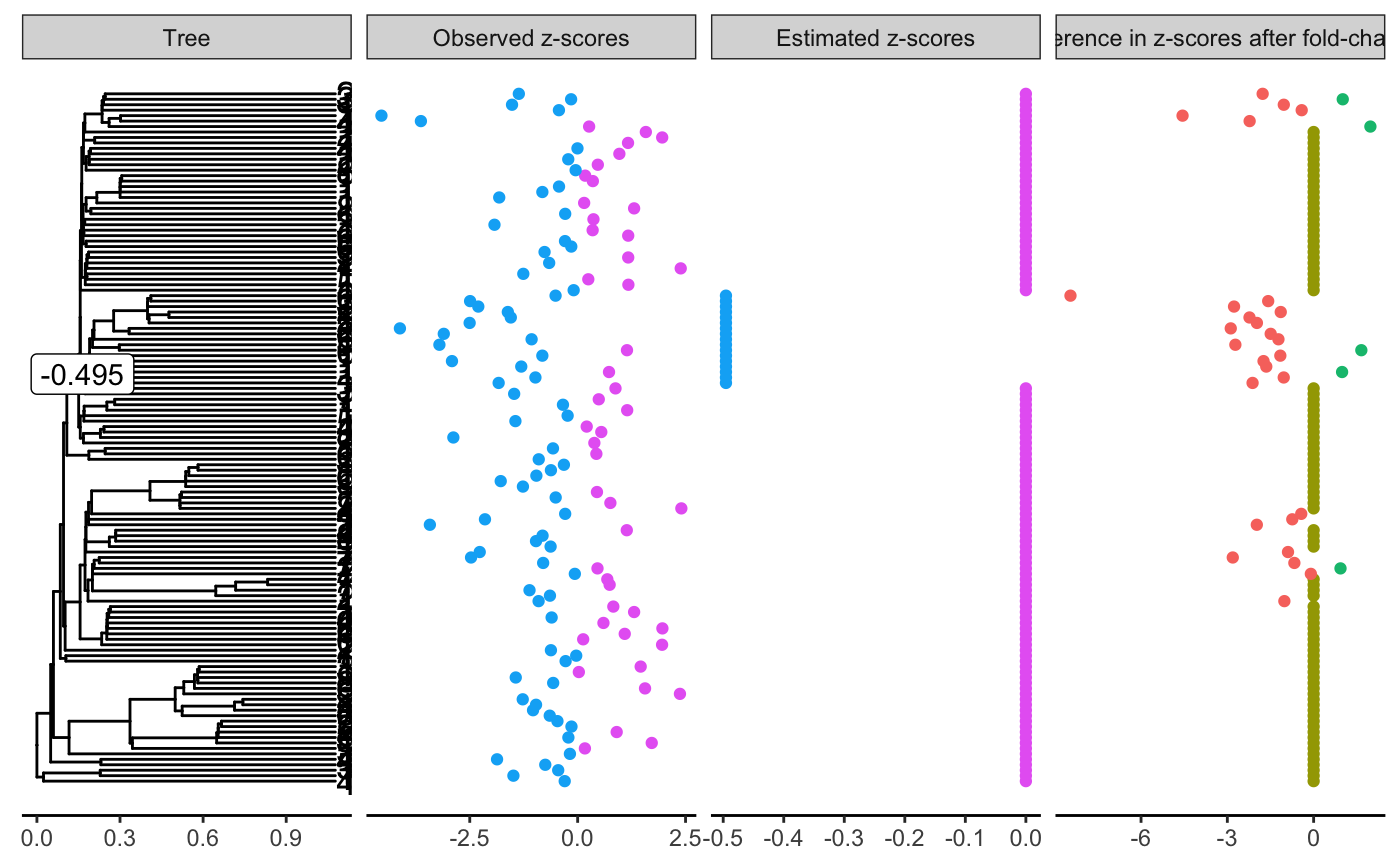
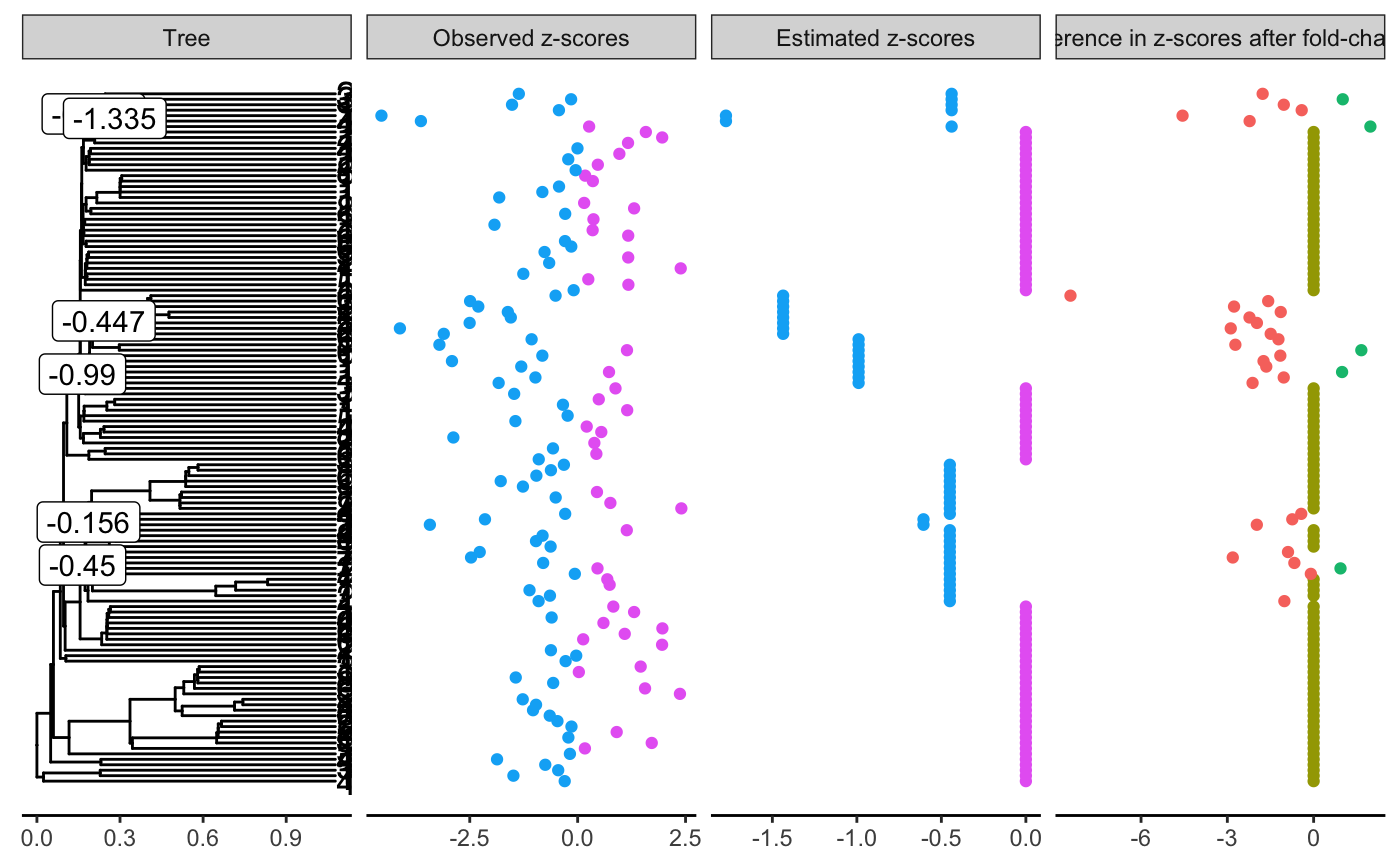
Change default values for lambda_grid()

diff --git a/inst/docs/articles/simulations.html b/inst/docs/articles/simulations.html
@@ -337,71 +337,66 @@
 <a class="sourceLine" id="cb21-7" data-line-number="7"><span class="co">#&gt; Warning: Removed 253 rows containing missing values (geom_label).</span></a></code></pre></div>
 <p><img src="simulations_files/figure-html/zscoressimudataset-1.png" width="700" style="display: block; margin: auto;"></p>
 <div class="sourceCode" id="cb22"><pre class="sourceCode r"><code class="sourceCode r"><a class="sourceLine" id="cb22-1" data-line-number="1"><span class="kw"><a href="https://rdrr.io/pkg/tictoc/man/tic.html">tic</a></span>()</a>
-<a class="sourceLine" id="cb22-2" data-line-number="2">estimation &lt;-<span class="st"> </span><span class="kw"><a href="../reference/estimate_shifts.html">estimate_shifts</a></span>(<span class="kw"><a href="https://rdrr.io/r/base/rep.html">rep</a></span>(<span class="dv">0</span>, N_branch), <span class="dt">zscores =</span> zscores, </a>
-<a class="sourceLine" id="cb22-3" data-line-number="3">                              <span class="dt">lambda =</span> <span class="dv">3</span> <span class="op">*</span><span class="st"> </span><span class="kw"><a href="https://rdrr.io/r/base/c.html">c</a></span>(<span class="dv">1</span><span class="op">/</span><span class="dv">3</span>, <span class="dv">1</span><span class="op">:</span><span class="dv">5</span>), <span class="dt">tree =</span> tree,</a>
-<a class="sourceLine" id="cb22-4" data-line-number="4">                              <span class="dt">alpha =</span> <span class="kw"><a href="https://rdrr.io/r/base/c.html">c</a></span>(<span class="fl">0.2</span>, <span class="fl">0.5</span>, <span class="dv">1</span>, <span class="dv">2</span>, <span class="dv">5</span>), </a>
-<a class="sourceLine" id="cb22-5" data-line-number="5">                              <span class="dt">method =</span> <span class="st">"shooting"</span>)</a>
-<a class="sourceLine" id="cb22-6" data-line-number="6"><span class="kw"><a href="https://rdrr.io/pkg/tictoc/man/tic.html">toc</a></span>()</a>
-<a class="sourceLine" id="cb22-7" data-line-number="7"><span class="co">#&gt; 3.376 sec elapsed</span></a>
-<a class="sourceLine" id="cb22-8" data-line-number="8">estimation</a>
-<a class="sourceLine" id="cb22-9" data-line-number="9"><span class="co">#&gt; Tree is binary with 127 leafs and 252 branches</span></a>
-<a class="sourceLine" id="cb22-10" data-line-number="10"><span class="co">#&gt; Covariance matrix has been estimated from an OU with alpha = 0.5 and sigma = 1.516 </span></a>
-<a class="sourceLine" id="cb22-11" data-line-number="11"><span class="co">#&gt; ---</span></a>
-<a class="sourceLine" id="cb22-12" data-line-number="12"><span class="co">#&gt; Optimisation algorithm: shooting with model selection</span></a>
-<a class="sourceLine" id="cb22-13" data-line-number="13"><span class="co">#&gt; Regularization parameter: lambda = 9 </span></a>
-<a class="sourceLine" id="cb22-14" data-line-number="14"><span class="co">#&gt; Objective value: 122.004</span></a>
-<a class="sourceLine" id="cb22-15" data-line-number="15"><span class="co">#&gt; BIC: 443.524</span></a>
-<a class="sourceLine" id="cb22-16" data-line-number="16"><span class="co">#&gt; ---</span></a>
-<a class="sourceLine" id="cb22-17" data-line-number="17"><span class="co">#&gt; Estimated shifts: 0 0 0 0 0 0 0 0 0 0 ...</span></a>
-<a class="sourceLine" id="cb22-18" data-line-number="18"><span class="co">#&gt; 1 shifts have been identified (ie 99.6 % of sparsity)</span></a>
-<a class="sourceLine" id="cb22-19" data-line-number="19"><span class="co">#&gt; A parsimonious solution would involve 1 shifts</span></a>
-<a class="sourceLine" id="cb22-20" data-line-number="20"><span class="co">#&gt; ---</span></a>
-<a class="sourceLine" id="cb22-21" data-line-number="21"><span class="co">#&gt; Observed z-scores:  1.58 -0.434 -0.152 -1.363 -1.521 -3.632 -4.547 0.266 1.167 1.959 ...</span></a>
-<a class="sourceLine" id="cb22-22" data-line-number="22"><span class="co">#&gt; Estimated z-scores:    0      0      0      0      0      0      0     0     0     0 ...</span></a>
-<a class="sourceLine" id="cb22-23" data-line-number="23"><span class="co">#&gt; 17 z-scores have been shifted (ie 86.6 % of sparsity)</span></a>
-<a class="sourceLine" id="cb22-24" data-line-number="24"><span class="kw"><a href="https://rdrr.io/r/graphics/plot.html">plot</a></span>(estimation, </a>
-<a class="sourceLine" id="cb22-25" data-line-number="25">     <span class="dt">sup_scores =</span> <span class="kw"><a href="https://rdrr.io/r/base/list.html">list</a></span>(<span class="kw"><a href="https://rdrr.io/r/base/list.html">list</a></span>(<span class="dt">scores =</span> zscores <span class="op">-</span><span class="st"> </span>zscores_original,</a>
-<a class="sourceLine" id="cb22-26" data-line-number="26">                            <span class="dt">title =</span> <span class="st">"Difference in z-scores after fold-change"</span>,</a>
-<a class="sourceLine" id="cb22-27" data-line-number="27">                            <span class="dt">color =</span> <span class="kw"><a href="https://rdrr.io/r/base/character.html">as.character</a></span>(<span class="kw"><a href="https://rdrr.io/r/base/sign.html">sign</a></span>(zscores <span class="op">-</span><span class="st"> </span>zscores_original)))))</a>
-<a class="sourceLine" id="cb22-28" data-line-number="28"><span class="co">#&gt; Warning: Removed 252 rows containing missing values (geom_label).</span></a></code></pre></div>
+<a class="sourceLine" id="cb22-2" data-line-number="2">estimation &lt;-<span class="st"> </span><span class="kw"><a href="../reference/estimate_shifts.html">estimate_shifts</a></span>(<span class="kw"><a href="https://rdrr.io/r/base/rep.html">rep</a></span>(<span class="dv">0</span>, N_branch), <span class="dt">zscores =</span> zscores, <span class="dt">tree =</span> tree,</a>
+<a class="sourceLine" id="cb22-3" data-line-number="3">                              <span class="dt">alpha =</span> <span class="kw"><a href="https://rdrr.io/r/base/c.html">c</a></span>(<span class="fl">0.2</span>, <span class="fl">0.5</span>, <span class="dv">1</span>, <span class="dv">2</span>, <span class="dv">5</span>), <span class="dt">method =</span> <span class="st">"shooting"</span>)</a>
+<a class="sourceLine" id="cb22-4" data-line-number="4"><span class="kw"><a href="https://rdrr.io/pkg/tictoc/man/tic.html">toc</a></span>()</a>
+<a class="sourceLine" id="cb22-5" data-line-number="5"><span class="co">#&gt; 7.783 sec elapsed</span></a>
+<a class="sourceLine" id="cb22-6" data-line-number="6">estimation</a>
+<a class="sourceLine" id="cb22-7" data-line-number="7"><span class="co">#&gt; Tree is binary with 127 leafs and 252 branches</span></a>
+<a class="sourceLine" id="cb22-8" data-line-number="8"><span class="co">#&gt; Covariance matrix has been estimated from an OU with alpha = 1 and sigma = 1.6 </span></a>
+<a class="sourceLine" id="cb22-9" data-line-number="9"><span class="co">#&gt; ---</span></a>
+<a class="sourceLine" id="cb22-10" data-line-number="10"><span class="co">#&gt; Optimisation algorithm: shooting with model selection</span></a>
+<a class="sourceLine" id="cb22-11" data-line-number="11"><span class="co">#&gt; Regularization parameter: lambda = 4.491 </span></a>
+<a class="sourceLine" id="cb22-12" data-line-number="12"><span class="co">#&gt; Objective value: 108.121</span></a>
+<a class="sourceLine" id="cb22-13" data-line-number="13"><span class="co">#&gt; BIC: 448.663</span></a>
+<a class="sourceLine" id="cb22-14" data-line-number="14"><span class="co">#&gt; ---</span></a>
+<a class="sourceLine" id="cb22-15" data-line-number="15"><span class="co">#&gt; Estimated shifts: 0 0 0 0 0 0 0 0 0 0 ...</span></a>
+<a class="sourceLine" id="cb22-16" data-line-number="16"><span class="co">#&gt; 6 shifts have been identified (ie 97.6 % of sparsity)</span></a>
+<a class="sourceLine" id="cb22-17" data-line-number="17"><span class="co">#&gt; A parsimonious solution would involve 6 shifts</span></a>
+<a class="sourceLine" id="cb22-18" data-line-number="18"><span class="co">#&gt; ---</span></a>
+<a class="sourceLine" id="cb22-19" data-line-number="19"><span class="co">#&gt; Observed z-scores:  1.58 -0.434 -0.152 -1.363 -1.521 -3.632 -4.547  0.266 1.167 1.959 ...</span></a>
+<a class="sourceLine" id="cb22-20" data-line-number="20"><span class="co">#&gt; Estimated z-scores:    0 -0.439 -0.439 -0.439 -0.439 -1.775 -1.775 -0.439     0     0 ...</span></a>
+<a class="sourceLine" id="cb22-21" data-line-number="21"><span class="co">#&gt; 50 z-scores have been shifted (ie 60.6 % of sparsity)</span></a>
+<a class="sourceLine" id="cb22-22" data-line-number="22"><span class="kw"><a href="https://rdrr.io/r/graphics/plot.html">plot</a></span>(estimation, </a>
+<a class="sourceLine" id="cb22-23" data-line-number="23">     <span class="dt">sup_scores =</span> <span class="kw"><a href="https://rdrr.io/r/base/list.html">list</a></span>(<span class="kw"><a href="https://rdrr.io/r/base/list.html">list</a></span>(<span class="dt">scores =</span> zscores <span class="op">-</span><span class="st"> </span>zscores_original,</a>
+<a class="sourceLine" id="cb22-24" data-line-number="24">                            <span class="dt">title =</span> <span class="st">"Difference in z-scores after fold-change"</span>,</a>
+<a class="sourceLine" id="cb22-25" data-line-number="25">                            <span class="dt">color =</span> <span class="kw"><a href="https://rdrr.io/r/base/character.html">as.character</a></span>(<span class="kw"><a href="https://rdrr.io/r/base/sign.html">sign</a></span>(zscores <span class="op">-</span><span class="st"> </span>zscores_original)))))</a>
+<a class="sourceLine" id="cb22-26" data-line-number="26"><span class="co">#&gt; Warning: Removed 247 rows containing missing values (geom_label).</span></a></code></pre></div>
 <p><img src="simulations_files/figure-html/estimationwithselection-1.png" width="700" style="display: block; margin: auto;"></p>
-<div class="sourceCode" id="cb23"><pre class="sourceCode r"><code class="sourceCode r"><a class="sourceLine" id="cb23-1" data-line-number="1">estimation<span class="op">$</span>optim_info<span class="op">$</span>bic_selection[<span class="dv">1</span><span class="op">:</span><span class="dv">4</span>]</a>
-<a class="sourceLine" id="cb23-2" data-line-number="2"><span class="co">#&gt;    alpha lambda objective_value      bic</span></a>
-<a class="sourceLine" id="cb23-3" data-line-number="3"><span class="co">#&gt; 1    0.2      1        79.35984 664.7875</span></a>
-<a class="sourceLine" id="cb23-4" data-line-number="4"><span class="co">#&gt; 2    0.2      3       111.84539 481.9931</span></a>
-<a class="sourceLine" id="cb23-5" data-line-number="5"><span class="co">#&gt; 3    0.2      6       124.73259 467.0638</span></a>
-<a class="sourceLine" id="cb23-6" data-line-number="6"><span class="co">#&gt; 4    0.2      9       127.66451 459.5819</span></a>
-<a class="sourceLine" id="cb23-7" data-line-number="7"><span class="co">#&gt; 5    0.2     12       128.43454 461.1044</span></a>
-<a class="sourceLine" id="cb23-8" data-line-number="8"><span class="co">#&gt; 6    0.2     15       128.43454 461.1044</span></a>
-<a class="sourceLine" id="cb23-9" data-line-number="9"><span class="co">#&gt; 7    0.5      1        76.81657 617.6763</span></a>
-<a class="sourceLine" id="cb23-10" data-line-number="10"><span class="co">#&gt; 8    0.5      3       106.57043 452.4026</span></a>
-<a class="sourceLine" id="cb23-11" data-line-number="11"><span class="co">#&gt; 9    0.5      6       118.74296 447.3734</span></a>
-<a class="sourceLine" id="cb23-12" data-line-number="12"><span class="co">#&gt; 10   0.5      9       122.00367 443.5236</span></a>
-<a class="sourceLine" id="cb23-13" data-line-number="13"><span class="co">#&gt; 11   0.5     12       123.16428 449.1238</span></a>
-<a class="sourceLine" id="cb23-14" data-line-number="14"><span class="co">#&gt; 12   0.5     15       123.16428 449.1238</span></a>
-<a class="sourceLine" id="cb23-15" data-line-number="15"><span class="co">#&gt; 13   1.0      1        73.89569 602.6719</span></a>
-<a class="sourceLine" id="cb23-16" data-line-number="16"><span class="co">#&gt; 14   1.0      3       100.78556 465.2568</span></a>
-<a class="sourceLine" id="cb23-17" data-line-number="17"><span class="co">#&gt; 15   1.0      6       112.70025 450.8219</span></a>
-<a class="sourceLine" id="cb23-18" data-line-number="18"><span class="co">#&gt; 16   1.0      9       116.59801 449.6638</span></a>
-<a class="sourceLine" id="cb23-19" data-line-number="19"><span class="co">#&gt; 17   1.0     12       118.48105 451.9635</span></a>
-<a class="sourceLine" id="cb23-20" data-line-number="20"><span class="co">#&gt; 18   1.0     15       118.71711 454.8281</span></a>
-<a class="sourceLine" id="cb23-21" data-line-number="21"><span class="co">#&gt; 19   2.0      1        71.73492 620.1164</span></a>
-<a class="sourceLine" id="cb23-22" data-line-number="22"><span class="co">#&gt; 20   2.0      3        95.91796 488.8059</span></a>
-<a class="sourceLine" id="cb23-23" data-line-number="23"><span class="co">#&gt; 21   2.0      6       108.18699 486.4565</span></a>
-<a class="sourceLine" id="cb23-24" data-line-number="24"><span class="co">#&gt; 22   2.0      9       113.84077 497.5231</span></a>
-<a class="sourceLine" id="cb23-25" data-line-number="25"><span class="co">#&gt; 23   2.0     12       116.05119 480.4951</span></a>
-<a class="sourceLine" id="cb23-26" data-line-number="26"><span class="co">#&gt; 24   2.0     15       118.18237 492.1856</span></a>
-<a class="sourceLine" id="cb23-27" data-line-number="27"><span class="co">#&gt; 25   5.0      1        71.48515 710.0186</span></a>
-<a class="sourceLine" id="cb23-28" data-line-number="28"><span class="co">#&gt; 26   5.0      3        94.53051 584.6625</span></a>
-<a class="sourceLine" id="cb23-29" data-line-number="29"><span class="co">#&gt; 27   5.0      6       107.13514 577.7578</span></a>
-<a class="sourceLine" id="cb23-30" data-line-number="30"><span class="co">#&gt; 28   5.0      9       113.21013 579.9054</span></a>
-<a class="sourceLine" id="cb23-31" data-line-number="31"><span class="co">#&gt; 29   5.0     12       116.49232 566.2284</span></a>
-<a class="sourceLine" id="cb23-32" data-line-number="32"><span class="co">#&gt; 30   5.0     15       119.12008 566.7097</span></a></code></pre></div>
+<div class="sourceCode" id="cb23"><pre class="sourceCode r"><code class="sourceCode r"><a class="sourceLine" id="cb23-1" data-line-number="1">estimation<span class="op">$</span>optim_info<span class="op">$</span>bic_selection <span class="op">%&gt;%</span></a>
+<a class="sourceLine" id="cb23-2" data-line-number="2"><span class="st">  </span><span class="kw"><a href="https://dplyr.tidyverse.org/reference/mutate.html">mutate</a></span>(<span class="dt">n_shifts =</span> <span class="kw"><a href="https://purrr.tidyverse.org/reference/map.html">map_dbl</a></span>(shift_est, <span class="op">~</span><span class="st"> </span><span class="kw"><a href="https://rdrr.io/r/base/sum.html">sum</a></span>(. <span class="op">!=</span><span class="st"> </span><span class="dv">0</span>))) <span class="op">%&gt;%</span><span class="st"> </span></a>
+<a class="sourceLine" id="cb23-3" data-line-number="3"><span class="st">  </span><span class="kw"><a href="https://dplyr.tidyverse.org/reference/select.html">select</a></span>(<span class="op">-</span>shift_est)</a>
+<a class="sourceLine" id="cb23-4" data-line-number="4"><span class="co">#&gt;    alpha     lambda objective_value      bic n_shifts</span></a>
+<a class="sourceLine" id="cb23-5" data-line-number="5"><span class="co">#&gt; 1    0.2 11.5895510       128.43454 461.1044        0</span></a>
+<a class="sourceLine" id="cb23-6" data-line-number="6"><span class="co">#&gt; 2    0.2  3.6649378       116.28074 480.4426       10</span></a>
+<a class="sourceLine" id="cb23-7" data-line-number="7"><span class="co">#&gt; 3    0.2  1.1589551        84.36882 636.9275       46</span></a>
+<a class="sourceLine" id="cb23-8" data-line-number="8"><span class="co">#&gt; 4    0.2  0.3664938        47.06135 858.8489       92</span></a>
+<a class="sourceLine" id="cb23-9" data-line-number="9"><span class="co">#&gt; 5    0.2  0.1158955        24.52084 909.8378      100</span></a>
+<a class="sourceLine" id="cb23-10" data-line-number="10"><span class="co">#&gt; 6    0.5 12.4598888       123.16428 449.1238        0</span></a>
+<a class="sourceLine" id="cb23-11" data-line-number="11"><span class="co">#&gt; 7    0.5  3.9401628       112.01428 449.5151        8</span></a>
+<a class="sourceLine" id="cb23-12" data-line-number="12"><span class="co">#&gt; 8    0.5  1.2459889        83.61821 567.7362       38</span></a>
+<a class="sourceLine" id="cb23-13" data-line-number="13"><span class="co">#&gt; 9    0.5  0.3940163        48.78565 802.8143       88</span></a>
+<a class="sourceLine" id="cb23-14" data-line-number="14"><span class="co">#&gt; 10   0.5  0.1245989        26.40136 863.9229       98</span></a>
+<a class="sourceLine" id="cb23-15" data-line-number="15"><span class="co">#&gt; 11   1.0 14.2023143       118.62973 453.2767        1</span></a>
+<a class="sourceLine" id="cb23-16" data-line-number="16"><span class="co">#&gt; 12   1.0  4.4911661       108.12114 448.6633        6</span></a>
+<a class="sourceLine" id="cb23-17" data-line-number="17"><span class="co">#&gt; 13   1.0  1.4202314        83.64183 535.8846       29</span></a>
+<a class="sourceLine" id="cb23-18" data-line-number="18"><span class="co">#&gt; 14   1.0  0.4491166        52.07900 759.7748       78</span></a>
+<a class="sourceLine" id="cb23-19" data-line-number="19"><span class="co">#&gt; 15   1.0  0.1420231        30.08167 837.2898       93</span></a>
+<a class="sourceLine" id="cb23-20" data-line-number="20"><span class="co">#&gt; 16   2.0 18.0004476       118.98448 480.4653        2</span></a>
+<a class="sourceLine" id="cb23-21" data-line-number="21"><span class="co">#&gt; 17   2.0  5.6922413       107.32682 485.7496        6</span></a>
+<a class="sourceLine" id="cb23-22" data-line-number="22"><span class="co">#&gt; 18   2.0  1.8000448        85.81006 540.4442       20</span></a>
+<a class="sourceLine" id="cb23-23" data-line-number="23"><span class="co">#&gt; 19   2.0  0.5692241        58.30107 731.5024       62</span></a>
+<a class="sourceLine" id="cb23-24" data-line-number="24"><span class="co">#&gt; 20   2.0  0.1800045        37.47416 806.4317       78</span></a>
+<a class="sourceLine" id="cb23-25" data-line-number="25"><span class="co">#&gt; 21   5.0 21.6884593       123.05463 568.1651        4</span></a>
+<a class="sourceLine" id="cb23-26" data-line-number="26"><span class="co">#&gt; 22   5.0  6.8584930       109.32786 578.5604        7</span></a>
+<a class="sourceLine" id="cb23-27" data-line-number="27"><span class="co">#&gt; 23   5.0  2.1688459        88.38188 612.2663       15</span></a>
+<a class="sourceLine" id="cb23-28" data-line-number="28"><span class="co">#&gt; 24   5.0  0.6858493        63.14174 761.8823       47</span></a>
+<a class="sourceLine" id="cb23-29" data-line-number="29"><span class="co">#&gt; 25   5.0  0.2168846        43.45898 871.2909       70</span></a></code></pre></div>
 <div class="sourceCode" id="cb24"><pre class="sourceCode r"><code class="sourceCode r"><a class="sourceLine" id="cb24-1" data-line-number="1">detected &lt;-<span class="st"> </span><span class="kw"><a href="https://rdrr.io/r/base/names.html">names</a></span>(<span class="kw"><a href="https://rdrr.io/r/base/which.html">which</a></span>(estimation<span class="op">$</span>zscores_est <span class="op">!=</span><span class="st"> </span><span class="dv">0</span>))</a>
 <a class="sourceLine" id="cb24-2" data-line-number="2">detected_bh &lt;-<span class="st"> </span><span class="kw"><a href="https://rdrr.io/r/base/names.html">names</a></span>(<span class="kw"><a href="https://rdrr.io/r/base/which.html">which</a></span>(<span class="kw"><a href="https://rdrr.io/r/stats/p.adjust.html">p.adjust</a></span>(pvalues, <span class="dt">method =</span> <span class="st">"BH"</span>) <span class="op">&lt;</span><span class="st"> </span><span class="fl">0.05</span>))</a>
 <a class="sourceLine" id="cb24-3" data-line-number="3"><span class="kw"><a href="https://rdrr.io/pkg/evabic/man/ebc_tidy.html">ebc_tidy</a></span>(detected, otus_da, <span class="dt">m =</span> <span class="kw"><a href="https://rdrr.io/r/base/length.html">length</a></span>(otu_to_kepp), <span class="dt">measures =</span> <span class="kw"><a href="https://rdrr.io/r/base/c.html">c</a></span>(<span class="st">"TPR"</span>, <span class="st">"FDR"</span>, <span class="st">"ACC"</span>, <span class="st">"F1"</span>, <span class="st">"BACC"</span>))</a>
-<a class="sourceLine" id="cb24-4" data-line-number="4"><span class="co">#&gt;         TPR FDR       ACC   F1      BACC</span></a>
-<a class="sourceLine" id="cb24-5" data-line-number="5"><span class="co">#&gt; 1 0.5151515   0 0.8740157 0.68 0.7575758</span></a>
+<a class="sourceLine" id="cb24-4" data-line-number="4"><span class="co">#&gt;   TPR  FDR       ACC        F1      BACC</span></a>
+<a class="sourceLine" id="cb24-5" data-line-number="5"><span class="co">#&gt; 1   1 0.34 0.8661417 0.7951807 0.9095745</span></a>
 <a class="sourceLine" id="cb24-6" data-line-number="6"><span class="kw"><a href="https://rdrr.io/pkg/evabic/man/ebc_tidy.html">ebc_tidy</a></span>(detected_bh, otus_da, <span class="dt">m =</span> <span class="kw"><a href="https://rdrr.io/r/base/length.html">length</a></span>(otu_to_kepp), <span class="dt">measures =</span> <span class="kw"><a href="https://rdrr.io/r/base/c.html">c</a></span>(<span class="st">"TPR"</span>, <span class="st">"FDR"</span>, <span class="st">"ACC"</span>, <span class="st">"F1"</span>, <span class="st">"BACC"</span>))</a>
 <a class="sourceLine" id="cb24-7" data-line-number="7"><span class="co">#&gt;         TPR   FDR       ACC        F1      BACC</span></a>
 <a class="sourceLine" id="cb24-8" data-line-number="8"><span class="co">#&gt; 1 0.2121212 0.125 0.7874016 0.3414634 0.6007415</span></a></code></pre></div>
@@ -413,7 +408,7 @@
 <a class="sourceLine" id="cb25-6" data-line-number="6">                       <span class="kw"><a href="https://rdrr.io/r/base/list.html">list</a></span>(<span class="dt">scores =</span> <span class="kw"><a href="https://rdrr.io/r/stats/p.adjust.html">p.adjust</a></span>(pvalues, <span class="dt">method =</span> <span class="st">"BH"</span>),</a>
 <a class="sourceLine" id="cb25-7" data-line-number="7">                            <span class="dt">title =</span> <span class="st">"Detected by BH"</span>,</a>
 <a class="sourceLine" id="cb25-8" data-line-number="8">                            <span class="dt">color =</span> <span class="kw"><a href="https://rdrr.io/r/stats/p.adjust.html">p.adjust</a></span>(pvalues, <span class="dt">method =</span> <span class="st">"BH"</span>) <span class="op">&lt;</span><span class="st"> </span><span class="fl">0.05</span>)))</a>
-<a class="sourceLine" id="cb25-9" data-line-number="9"><span class="co">#&gt; Warning: Removed 252 rows containing missing values (geom_label).</span></a></code></pre></div>
+<a class="sourceLine" id="cb25-9" data-line-number="9"><span class="co">#&gt; Warning: Removed 247 rows containing missing values (geom_label).</span></a></code></pre></div>
 <p><img src="simulations_files/figure-html/plotswithbh-1.png" width="700" style="display: block; margin: auto;"></p>
 <div class="sourceCode" id="cb26"><pre class="sourceCode r"><code class="sourceCode r"><a class="sourceLine" id="cb26-1" data-line-number="1">df &lt;-</a>
 <a class="sourceLine" id="cb26-2" data-line-number="2"><span class="st">  </span><span class="kw"><a href="https://rdrr.io/r/base/unique.html">unique</a></span>(estimation<span class="op">$</span>zscores_est) <span class="op">%&gt;%</span></a>

diff --git a/inst/docs/articles/alcohol.html b/inst/docs/articles/alcohol.html
@@ -142,7 +142,7 @@
 <a class="sourceLine" id="cb7-3" data-line-number="3">                              <span class="dt">lambda =</span> <span class="dv">2</span>, <span class="dt">tree =</span> tree, <span class="dt">alpha =</span> <span class="fl">0.1</span>,</a>
 <a class="sourceLine" id="cb7-4" data-line-number="4">                              <span class="dt">method =</span> <span class="st">"L-BFGS-B"</span>)</a>
 <a class="sourceLine" id="cb7-5" data-line-number="5"><span class="kw"><a href="https://rdrr.io/pkg/tictoc/man/tic.html">toc</a></span>()</a>
-<a class="sourceLine" id="cb7-6" data-line-number="6"><span class="co">#&gt; 172.95 sec elapsed</span></a>
+<a class="sourceLine" id="cb7-6" data-line-number="6"><span class="co">#&gt; 187.117 sec elapsed</span></a>
 <a class="sourceLine" id="cb7-7" data-line-number="7">est_lbfgsb</a>
 <a class="sourceLine" id="cb7-8" data-line-number="8"><span class="co">#&gt; Tree is not binary with 949 leafs and 1890 branches</span></a>
 <a class="sourceLine" id="cb7-9" data-line-number="9"><span class="co">#&gt; Covariance matrix has been estimated from an OU with alpha = 0.1 and sigma = 2.307 </span></a>
@@ -171,7 +171,7 @@
 <a class="sourceLine" id="cb8-3" data-line-number="3">                                <span class="dt">lambda =</span> <span class="dv">2</span>, <span class="dt">tree =</span> tree, <span class="dt">alpha =</span> <span class="fl">0.1</span>,</a>
 <a class="sourceLine" id="cb8-4" data-line-number="4">                                <span class="dt">method =</span> <span class="st">"shooting"</span>)</a>
 <a class="sourceLine" id="cb8-5" data-line-number="5"><span class="kw"><a href="https://rdrr.io/pkg/tictoc/man/tic.html">toc</a></span>() <span class="co"># 10 times faster</span></a>
-<a class="sourceLine" id="cb8-6" data-line-number="6"><span class="co">#&gt; 11.578 sec elapsed</span></a>
+<a class="sourceLine" id="cb8-6" data-line-number="6"><span class="co">#&gt; 16.009 sec elapsed</span></a>
 <a class="sourceLine" id="cb8-7" data-line-number="7">est_shooting <span class="co"># similar results</span></a>
 <a class="sourceLine" id="cb8-8" data-line-number="8"><span class="co">#&gt; Tree is not binary with 949 leafs and 1890 branches</span></a>
 <a class="sourceLine" id="cb8-9" data-line-number="9"><span class="co">#&gt; Covariance matrix has been estimated from an OU with alpha = 0.1 and sigma = 2.307 </span></a>

diff --git a/inst/docs/articles/chlamydiae.html b/inst/docs/articles/chlamydiae.html
@@ -130,7 +130,7 @@
 <a class="sourceLine" id="cb5-3" data-line-number="3">                              <span class="dt">lambda =</span> <span class="fl">0.1</span>, <span class="dt">tree =</span> tree, <span class="dt">alpha =</span> <span class="dv">1</span>,</a>
 <a class="sourceLine" id="cb5-4" data-line-number="4">                              <span class="dt">method =</span> <span class="st">"L-BFGS-B"</span>)</a>
 <a class="sourceLine" id="cb5-5" data-line-number="5"><span class="kw"><a href="https://rdrr.io/pkg/tictoc/man/tic.html">toc</a></span>()</a>
-<a class="sourceLine" id="cb5-6" data-line-number="6"><span class="co">#&gt; 0.009 sec elapsed</span></a>
+<a class="sourceLine" id="cb5-6" data-line-number="6"><span class="co">#&gt; 0.023 sec elapsed</span></a>
 <a class="sourceLine" id="cb5-7" data-line-number="7">est_lbfgsb</a>
 <a class="sourceLine" id="cb5-8" data-line-number="8"><span class="co">#&gt; Tree is binary with 21 leafs and 40 branches</span></a>
 <a class="sourceLine" id="cb5-9" data-line-number="9"><span class="co">#&gt; Covariance matrix has been estimated from an OU with alpha = 1 and sigma = 7.198 </span></a>
@@ -160,7 +160,7 @@
 <a class="sourceLine" id="cb6-4" data-line-number="4">                                <span class="dt">lambda =</span> <span class="fl">0.1</span>, <span class="dt">tree =</span> tree, <span class="dt">alpha =</span> <span class="dv">1</span>,</a>
 <a class="sourceLine" id="cb6-5" data-line-number="5">                                <span class="dt">method =</span> <span class="st">"shooting"</span>)</a>
 <a class="sourceLine" id="cb6-6" data-line-number="6"><span class="kw"><a href="https://rdrr.io/pkg/tictoc/man/tic.html">toc</a></span>()</a>
-<a class="sourceLine" id="cb6-7" data-line-number="7"><span class="co">#&gt; 0.054 sec elapsed</span></a>
+<a class="sourceLine" id="cb6-7" data-line-number="7"><span class="co">#&gt; 0.053 sec elapsed</span></a>
 <a class="sourceLine" id="cb6-8" data-line-number="8">est_shooting</a>
 <a class="sourceLine" id="cb6-9" data-line-number="9"><span class="co">#&gt; Tree is binary with 21 leafs and 40 branches</span></a>
 <a class="sourceLine" id="cb6-10" data-line-number="10"><span class="co">#&gt; Covariance matrix has been estimated from an OU with alpha = 1 and sigma = 7.198 </span></a>

diff --git a/inst/docs/reference/lambda_grid.html b/inst/docs/reference/lambda_grid.html
@@ -135,7 +135,7 @@
     <p>Helper function to compute a logarithmic lambda grid</p>
     </div>
 
-    <pre class="usage"><span class='fu'>lambda_grid</span>(<span class='no'>x</span>, <span class='no'>y</span>, <span class='kw'>n_lambda</span> <span class='kw'>=</span> <span class='fl'>6</span>, <span class='kw'>min_ratio</span> <span class='kw'>=</span> <span class='fl'>1e-05</span>)</pre>
+    <pre class="usage"><span class='fu'>lambda_grid</span>(<span class='no'>x</span>, <span class='no'>y</span>, <span class='kw'>n_lambda</span> <span class='kw'>=</span> <span class='fl'>5</span>, <span class='kw'>min_ratio</span> <span class='kw'>=</span> <span class='fl'>0.01</span>)</pre>
 
     <h2 class="hasAnchor" id="arguments"><a class="anchor" href="#arguments"></a>Arguments</h2>
     <table class="ref-arguments">
